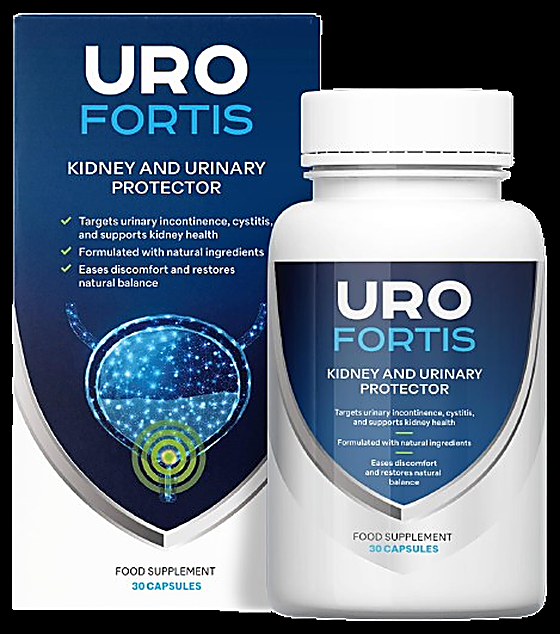
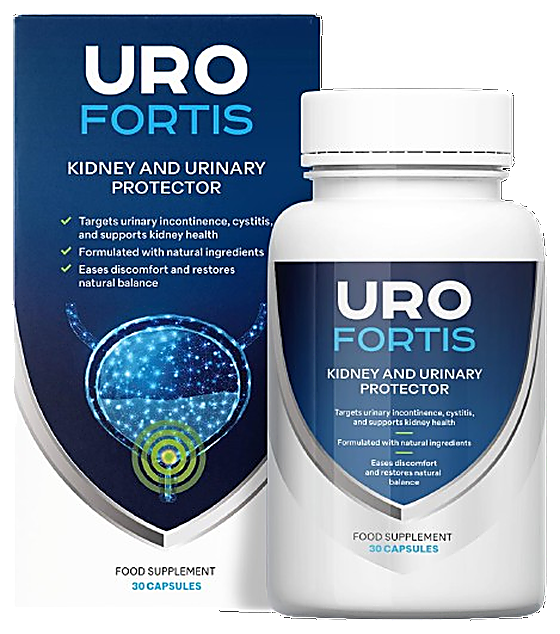
Фото: белый фон вместо чёрного — 763 кадра заливкой, 223 перерисовкой с автопроверкой текста

Changed region(s): [[0.0, 0.0, 1.0, 1.0]]

diff --git a/index.html b/index.html
@@ -52,7 +52,7 @@
 <div class="wrap">
   <header><img src="favicon.png" alt=""><h1>Магазин на производителя</h1></header>
   <div class="intro"><p>Директна продажба на продукти за ежедневно добро самочувствие.</p></div>
-  <div class="grid"><a class="card" href="/cp/abslim/"><div class="ph"><img src="img/lbhd-15182.png" alt="ABSlim" loading="lazy"></div><div class="name">ABSlim</div><div class="price">39 €</div><div class="btn">ПОРЪЧАЙ ОРИГИНАЛА</div></a><a class="card" href="/tl/abstinin/"><div class="ph"><img src="img/tlhd-14727.png" alt="ABSTININ" loading="lazy"></div><div class="name">ABSTININ</div><div class="price">32 €</div><div class="btn">ПОРЪЧАЙ ОРИГИНАЛА</div></a><a class="card" href="/kma/adenofrin/"><div class="ph"><img src="img/kmahd-9836.png" alt="Adenofrin" loading="lazy"></div><div class="name">Adenofrin</div><div class="price">39 €</div><div class="btn">ПОРЪЧАЙ ОРИГИНАЛА</div></a><a class="card" href="/dc/adenofrin/"><div class="ph"><img src="img/dccard-28111.png" alt="Adenofrin caps" loading="lazy"></div><div class="name">Adenofrin caps</div><div class="price">40 €</div><div class="btn">ПОРЪЧАЙ ОРИГИНАЛА</div></a><a class="card" href="/tl/alcoferol/"><div class="ph"><img src="img/tlhd-11860.jpg" alt="ALCOFEROL" loading="lazy"></div><div class="name">ALCOFEROL</div><div class="price">29 €</div><div class="btn">ПОРЪЧАЙ ОРИГИНАЛА</div></a><a class="card" href="/cp/alvarix/"><div class="ph"><img src="img/cp-16305.jpg" alt="ALVARIX" loading="lazy"></div><div class="name">ALVARIX</div><div class="price">39 €</div><div class="btn">ПОРЪЧАЙ ОРИГИНАЛА</div></a><a class="card" href="/ac/apolloss/"><div class="ph"><img src="img/achd-34548.png" alt="Apolloss" loading="lazy"></div><div class="name">Apolloss</div><div class="price">39 €</div><div class="btn">ПОРЪЧАЙ ОРИГИНАЛА</div></a><a class="card" href="/lb/arthrolead/"><div class="ph"><img src="img/lbhd-19307.jpeg" alt="ArthroLead" loading="lazy"></div><div class="name">ArthroLead</div><div class="price">19 €</div><div class="btn">ПОРЪЧАЙ ОРИГИНАЛА</div></a><a class="card" href="/m1/arthrolon/"><div class="ph"><img src="img/drcash-arthrolon.png" alt="Arthrolon" loading="lazy"></div><div class="name">Arthrolon</div><div class="price">40 €</div><div class="btn">ПОРЪЧАЙ ОРИГИНАЛА</div></a><a class="card" href="/kma/articulor/"><div class="ph"><img src="img/kmahd-10318.png" alt="Articulor" loading="lazy"></div><div class="name">Articulor</div><div class="price">4 €</div><div class="btn">ПОРЪЧАЙ ОРИГИНАЛА</div></a><a class="card" href="/tl/artivital/"><div class="ph"><img src="img/tlhd-23273.png" alt="Artivital" loading="lazy"></div><div class="name">Artivital</div><div class="price">27 €</div><div class="btn">ПОРЪЧАЙ ОРИГИНАЛА</div></a><a class="card" href="/lb/artrodar-active/"><div class="ph"><img src="img/lbhd-19928.png" alt="ARTRODAR Active" loading="lazy"></div><div class="name">ARTRODAR Active</div><div class="price">29 €</div><div class="btn">ПОРЪЧАЙ ОРИГИНАЛА</div></a><a class="card" href="/kma/artronol/"><div class="ph"><img src="img/kmahd-10748.png" alt="Artronol" loading="lazy"></div><div class="name">Artronol</div><div class="price">39 €</div><div class="btn">ПОРЪЧАЙ ОРИГИНАЛА</div></a><a class="card" href="/cp/aurivit/"><div class="ph"><img src="img/m1-aurivit.png" alt="Aurivit" loading="lazy"></div><div class="name">Aurivit</div><div class="price">39 €</div><div class="btn">ПОРЪЧАЙ ОРИГИНАЛА</div></a><a class="card" href="/cp/beauty-age/"><div class="ph"><img src="img/cp-16307.jpg" alt="BEAUTY AGE" loading="lazy"></div><div class="name">BEAUTY AGE</div><div class="price">39 €</div><div class="btn">ПОРЪЧАЙ ОРИГИНАЛА</div></a><a class="card" href="/kma/beauty-derm/"><div class="ph"><img src="img/kmahd-7206.jpg" alt="Beauty Derm" loading="lazy"></div><div class="name">Beauty Derm</div><div class="price">55 €</div><div class="btn">ПОРЪЧАЙ ОРИГИНАЛА</div></a><a class="card" href="/kma/brea-up/"><div class="ph"><img src="img/kmahd-9483.png" alt="Brea Up" loading="lazy"></div><div class="name">Brea Up</div><div class="price">39 €</div><div class="btn">ПОРЪЧАЙ ОРИГИНАЛА</div></a><a class="card" href="/mc/bullrun-5623/"><div class="ph"><img src="img/drcash-bullrun.png" alt="Bullrun" loading="lazy"></div><div class="name">Bullrun</div><div class="price">1 ОП. БЕЗПЛАТНО</div><div class="btn">ПОРЪЧАЙ ОРИГИНАЛА</div></a><a class="card" href="/mc/bust-up/"><div class="ph"><img src="img/cat-met-5627.jpg" alt="Bust Me-Up" loading="lazy"></div><div class="name">Bust Me-Up</div><div class="price">1 ОП. БЕЗПЛАТНО</div><div class="btn">ПОРЪЧАЙ ОРИГИНАЛА</div></a><a class="card" href="/lr/cardio-nrj/"><div class="ph"><img src="img/leadrock-cardio-nrj.webp" alt="Cardio NRJ" loading="lazy"></div><div class="name">Cardio NRJ</div><div class="price">75 €</div><div class="btn">ПОРЪЧАЙ ОРИГИНАЛА</div></a><a class="card" href="/kma/cardio-nrj-ii/"><div class="ph"><img src="img/kmahd-8695.jpg" alt="Cardio NRJ II" loading="lazy"></div><div class="name">Cardio NRJ II</div><div class="price">39 €</div><div class="btn">ПОРЪЧАЙ ОРИГИНАЛА</div></a><a class="card" href="/tl/cardioferol/"><div class="ph"><img src="img/tlhd-11021.png" alt="Cardioferol" loading="lazy"></div><div class="name">Cardioferol</div><div class="price">27 €</div><div class="btn">ПОРЪЧАЙ ОРИГИНАЛА</div></a><a class="card" href="/kma/cardiolis/"><div class="ph"><img src="img/kmahd-8286.png" alt="Cardiolis" loading="lazy"></div><div class="name">Cardiolis</div><div class="price">39 €</div><div class="btn">ПОРЪЧАЙ ОРИГИНАЛА</div></a><a class="card" href="/cp/cardioser/"><div class="ph"><img src="img/trafficlight-cardioser.png" alt="Cardioser" loading="lazy"></div><div class="name">Cardioser</div><div class="price">50 €</div><div class="btn">ПОРЪЧАЙ ОРИГИНАЛА</div></a><a class="card" href="/lr/cardiotensive/"><div class="ph"><img src="img/achd-37067.png" alt="Cardiotensive" loading="lazy"></div><div class="name">Cardiotensive</div><div class="price">69 €</div><div class="btn">ПОРЪЧАЙ ОРИГИНАЛА</div></a><a class="card" href="/kma/celluless/"><div class="ph"><img src="img/kmahd-7426.png" alt="Celluless" loading="lazy"></div><div class="name">Celluless</div><div class="price">39 €</div><div class="btn">ПОРЪЧАЙ ОРИГИНАЛА</div></a><a class="card" href="/mc/colladiox-pro/"><div class="ph"><img src="img/kmahd-11945.png" alt="Colladiox Pro" loading="lazy"></div><div class="name">Colladiox Pro</div><div class="price">1 ОП. БЕЗПЛАТНО</div><div class="btn">ПОРЪЧАЙ ОРИГИНАЛА</div></a><a class="card" href="/dc/cormidex/"><div class="ph"><img src="img/dccard-30095.png" alt="Cormidex" loading="lazy"></div><div class="name">Cormidex</div><div class="price">40 €</div><div class="btn">ПОРЪЧАЙ ОРИГИНАЛА</div></a><a class="card" href="/ac/cystiolla/"><div class="ph"><img src="img/achd-39165.png" alt="Cystiolla" loading="lazy"></div><div class="name">Cystiolla</div><div class="price">69 €</div><div class="btn">ПОРЪЧАЙ ОРИГИНАЛА</div></a><a class="card" href="/cp/cystolax/"><div class="ph"><img src="img/cpagetti-cystolax.png" alt="Cystolax" loading="lazy"></div><div class="name">Cystolax</div><div class="price">39 €</div><div class="btn">ПОРЪЧАЙ ОРИГИНАЛА</div></a><a class="card" href="/lr/dermal/"><div class="ph"><img src="img/lrhd-3086.png" alt="Dermal" loading="lazy"></div><div class="name">Dermal</div><div class="price">85 €</div><div class="btn">ПОРЪЧАЙ ОРИГИНАЛА</div></a><a class="card" href="/lr/dermasept/"><div class="ph"><img src="img/lrhd-6749.png" alt="Dermasept" loading="lazy"></div><div class="name">Dermasept</div><div class="price">20 €</div><div class="btn">ПОРЪЧАЙ ОРИГИНАЛА</div></a><a class="card" href="/mc/dermo-pro/"><div class="ph"><img src="img/tl-cab-dermo-pro.jpg" alt="Dermo-Pro" loading="lazy"></div><div class="name">Dermo-Pro</div><div class="price">1 ОП. БЕЗПЛАТНО</div><div class="btn">ПОРЪЧАЙ ОРИГИНАЛА</div></a><a class="card" href="/mc/detoxil-water/"><div class="ph"><img src="img/tlhd-14289.png" alt="Detoxil Water" loading="lazy"></div><div class="name">Detoxil Water</div><div class="price">39 €</div><div class="btn">ПОРЪЧАЙ ОРИГИНАЛА</div></a><a class="card" href="/ac/dia-caps/"><div class="ph"><img src="img/achd-38082.jpg" alt="Dia Caps" loading="lazy"></div><div class="name">Dia Caps</div><div class="price">39 €</div><div class="btn">ПОРЪЧАЙ ОРИГИНАЛА</div></a><a class="card" href="/dc/dia-control-drops/"><div class="ph"><img src="img/dccard-28611.png" alt="Dia Control drops" loading="lazy"></div><div class="name">Dia Control drops</div><div class="price">40 €</div><div class="btn">ПОРЪЧАЙ ОРИГИНАЛА</div></a><a class="card" href="/lb/diabexol-pro/"><div class="ph"><img src="img/lbhd-19452.png" alt="Diabexol Pro" loading="lazy"></div><div class="name">Diabexol Pro</div><div class="price">29 €</div><div class="btn">ПОРЪЧАЙ ОРИГИНАЛА</div></a><a class="card" href="/lr/diacaps/"><div class="ph"><img src="img/lrhd-4273.png" alt="DiaCaps" loading="lazy"></div><div class="name">DiaCaps</div><div class="price">75 €</div><div class="btn">ПОРЪЧАЙ ОРИГИНАЛА</div></a><a class="card" href="/dc/diacontrol/"><div class="ph"><img src="img/dccard-31469.png" alt="DiaControl caps" loading="lazy"></div><div class="name">DiaControl caps</div><div class="price">40 €</div><div class="btn">ПОРЪЧАЙ ОРИГИНАЛА</div></a><a class="card" href="/ac/diadrops/"><div class="ph"><img src="img/achd-34545.jpg" alt="DiaDrops" loading="lazy"></div><div class="name">DiaDrops</div><div class="price">39 €</div><div class="btn">ПОРЪЧАЙ ОРИГИНАЛА</div></a><a class="card" href="/cp/diaflex-forte/"><div class="ph"><img src="img/cat-kma-10567.jpg" alt="DiaFlex Forte" loading="lazy"></div><div class="name">DiaFlex Forte</div><div class="price">35 €</div><div class="btn">ПОРЪЧАЙ ОРИГИНАЛА</div></a><a class="card" href="/ac/diatea/"><div class="ph"><img src="img/achd-32540.jpeg" alt="Diatea" loading="lazy"></div><div class="name">Diatea</div><div class="price">39 €</div><div class="btn">ПОРЪЧАЙ ОРИГИНАЛА</div></a><a class="card" href="/lb/diet-shake/"><div class="ph"><img src="img/lbhd-15177.png" alt="Diet Shake" loading="lazy"></div><div class="name">Diet Shake</div><div class="price">49.9 €</div><div class="btn">ПОРЪЧАЙ ОРИГИНАЛА</div></a><a class="card" href="/cp/dizaxen/"><div class="ph"><img src="img/cp-17997.jpg" alt="DIZAXEN" loading="lazy"></div><div class="name">DIZAXEN</div><div class="price">39 €</div><div class="btn">ПОРЪЧАЙ ОРИГИНАЛА</div></a><a class="card" href="/m1/dm-norm/"><div class="ph"><img src="img/trafficlight-dm-norm.png" alt="DM-Norm" loading="lazy"></div><div class="name">DM-Norm</div><div class="price">20 €</div><div class="btn">ПОРЪЧАЙ ОРИГИНАЛА</div></a><a class="card" href="/dc/dm-norm/"><div class="ph"><img src="img/trafficlight-dm-norm.png" alt="DM-NORM caps" loading="lazy"></div><div class="name">DM-NORM caps</div><div class="price">40 €</div><div class="btn">ПОРЪЧАЙ ОРИГИНАЛА</div></a><a class="card" href="/mc/dorsodex/"><div class="ph"><img src="img/mchd-5785.png" alt="Dorsodex" loading="lazy"></div><div class="name">Dorsodex</div><div class="price">40 €</div><div class="btn">ПОРЪЧАЙ ОРИГИНАЛА</div></a><a class="card" href="/dc/dorsodex-cream/"><div class="ph"><img src="img/dccard-32634.png" alt="Dorsodex Cream" loading="lazy"></div><div class="name">Dorsodex Cream</div><div class="price">40 €</div><div class="btn">ПОРЪЧАЙ ОРИГИНАЛА</div></a></div>
+  <div class="grid"><a class="card" href="/cp/abslim/"><div class="ph"><img src="img/lbhd-15182.png" alt="ABSlim" loading="lazy"></div><div class="name">ABSlim</div><div class="price">39 €</div><div class="btn">ПОРЪЧАЙ ОРИГИНАЛА</div></a><a class="card" href="/tl/abstinin/"><div class="ph"><img src="img/redraw-tlhd-14727.png" alt="ABSTININ" loading="lazy"></div><div class="name">ABSTININ</div><div class="price">32 €</div><div class="btn">ПОРЪЧАЙ ОРИГИНАЛА</div></a><a class="card" href="/kma/adenofrin/"><div class="ph"><img src="img/kmahd-9836.png" alt="Adenofrin" loading="lazy"></div><div class="name">Adenofrin</div><div class="price">39 €</div><div class="btn">ПОРЪЧАЙ ОРИГИНАЛА</div></a><a class="card" href="/dc/adenofrin/"><div class="ph"><img src="img/dccard-28111.png" alt="Adenofrin caps" loading="lazy"></div><div class="name">Adenofrin caps</div><div class="price">40 €</div><div class="btn">ПОРЪЧАЙ ОРИГИНАЛА</div></a><a class="card" href="/tl/alcoferol/"><div class="ph"><img src="img/tlhd-11860.jpg" alt="ALCOFEROL" loading="lazy"></div><div class="name">ALCOFEROL</div><div class="price">29 €</div><div class="btn">ПОРЪЧАЙ ОРИГИНАЛА</div></a><a class="card" href="/cp/alvarix/"><div class="ph"><img src="img/cp-16305.jpg" alt="ALVARIX" loading="lazy"></div><div class="name">ALVARIX</div><div class="price">39 €</div><div class="btn">ПОРЪЧАЙ ОРИГИНАЛА</div></a><a class="card" href="/ac/apolloss/"><div class="ph"><img src="img/achd-34548.png" alt="Apolloss" loading="lazy"></div><div class="name">Apolloss</div><div class="price">39 €</div><div class="btn">ПОРЪЧАЙ ОРИГИНАЛА</div></a><a class="card" href="/lb/arthrolead/"><div class="ph"><img src="img/lbhd-19307.jpeg" alt="ArthroLead" loading="lazy"></div><div class="name">ArthroLead</div><div class="price">19 €</div><div class="btn">ПОРЪЧАЙ ОРИГИНАЛА</div></a><a class="card" href="/m1/arthrolon/"><div class="ph"><img src="img/drcash-arthrolon.png" alt="Arthrolon" loading="lazy"></div><div class="name">Arthrolon</div><div class="price">40 €</div><div class="btn">ПОРЪЧАЙ ОРИГИНАЛА</div></a><a class="card" href="/kma/articulor/"><div class="ph"><img src="img/kmahd-10318.png" alt="Articulor" loading="lazy"></div><div class="name">Articulor</div><div class="price">4 €</div><div class="btn">ПОРЪЧАЙ ОРИГИНАЛА</div></a><a class="card" href="/tl/artivital/"><div class="ph"><img src="img/tlhd-23273.png" alt="Artivital" loading="lazy"></div><div class="name">Artivital</div><div class="price">27 €</div><div class="btn">ПОРЪЧАЙ ОРИГИНАЛА</div></a><a class="card" href="/lb/artrodar-active/"><div class="ph"><img src="img/lbhd-19928.png" alt="ARTRODAR Active" loading="lazy"></div><div class="name">ARTRODAR Active</div><div class="price">29 €</div><div class="btn">ПОРЪЧАЙ ОРИГИНАЛА</div></a><a class="card" href="/kma/artronol/"><div class="ph"><img src="img/kmahd-10748.png" alt="Artronol" loading="lazy"></div><div class="name">Artronol</div><div class="price">39 €</div><div class="btn">ПОРЪЧАЙ ОРИГИНАЛА</div></a><a class="card" href="/cp/aurivit/"><div class="ph"><img src="img/m1-aurivit.png" alt="Aurivit" loading="lazy"></div><div class="name">Aurivit</div><div class="price">39 €</div><div class="btn">ПОРЪЧАЙ ОРИГИНАЛА</div></a><a class="card" href="/cp/beauty-age/"><div class="ph"><img src="img/cp-16307.jpg" alt="BEAUTY AGE" loading="lazy"></div><div class="name">BEAUTY AGE</div><div class="price">39 €</div><div class="btn">ПОРЪЧАЙ ОРИГИНАЛА</div></a><a class="card" href="/kma/beauty-derm/"><div class="ph"><img src="img/kmahd-7206.jpg" alt="Beauty Derm" loading="lazy"></div><div class="name">Beauty Derm</div><div class="price">55 €</div><div class="btn">ПОРЪЧАЙ ОРИГИНАЛА</div></a><a class="card" href="/kma/brea-up/"><div class="ph"><img src="img/kmahd-9483.png" alt="Brea Up" loading="lazy"></div><div class="name">Brea Up</div><div class="price">39 €</div><div class="btn">ПОРЪЧАЙ ОРИГИНАЛА</div></a><a class="card" href="/mc/bullrun-5623/"><div class="ph"><img src="img/redraw-drcash-bullrun.png" alt="Bullrun" loading="lazy"></div><div class="name">Bullrun</div><div class="price">1 ОП. БЕЗПЛАТНО</div><div class="btn">ПОРЪЧАЙ ОРИГИНАЛА</div></a><a class="card" href="/mc/bust-up/"><div class="ph"><img src="img/cat-met-5627.jpg" alt="Bust Me-Up" loading="lazy"></div><div class="name">Bust Me-Up</div><div class="price">1 ОП. БЕЗПЛАТНО</div><div class="btn">ПОРЪЧАЙ ОРИГИНАЛА</div></a><a class="card" href="/lr/cardio-nrj/"><div class="ph"><img src="img/leadrock-cardio-nrj.webp" alt="Cardio NRJ" loading="lazy"></div><div class="name">Cardio NRJ</div><div class="price">75 €</div><div class="btn">ПОРЪЧАЙ ОРИГИНАЛА</div></a><a class="card" href="/kma/cardio-nrj-ii/"><div class="ph"><img src="img/kmahd-8695.jpg" alt="Cardio NRJ II" loading="lazy"></div><div class="name">Cardio NRJ II</div><div class="price">39 €</div><div class="btn">ПОРЪЧАЙ ОРИГИНАЛА</div></a><a class="card" href="/tl/cardioferol/"><div class="ph"><img src="img/tlhd-11021.png" alt="Cardioferol" loading="lazy"></div><div class="name">Cardioferol</div><div class="price">27 €</div><div class="btn">ПОРЪЧАЙ ОРИГИНАЛА</div></a><a class="card" href="/kma/cardiolis/"><div class="ph"><img src="img/kmahd-8286.png" alt="Cardiolis" loading="lazy"></div><div class="name">Cardiolis</div><div class="price">39 €</div><div class="btn">ПОРЪЧАЙ ОРИГИНАЛА</div></a><a class="card" href="/cp/cardioser/"><div class="ph"><img src="img/trafficlight-cardioser.png" alt="Cardioser" loading="lazy"></div><div class="name">Cardioser</div><div class="price">50 €</div><div class="btn">ПОРЪЧАЙ ОРИГИНАЛА</div></a><a class="card" href="/lr/cardiotensive/"><div class="ph"><img src="img/achd-37067.png" alt="Cardiotensive" loading="lazy"></div><div class="name">Cardiotensive</div><div class="price">69 €</div><div class="btn">ПОРЪЧАЙ ОРИГИНАЛА</div></a><a class="card" href="/kma/celluless/"><div class="ph"><img src="img/kmahd-7426.png" alt="Celluless" loading="lazy"></div><div class="name">Celluless</div><div class="price">39 €</div><div class="btn">ПОРЪЧАЙ ОРИГИНАЛА</div></a><a class="card" href="/mc/colladiox-pro/"><div class="ph"><img src="img/kmahd-11945.png" alt="Colladiox Pro" loading="lazy"></div><div class="name">Colladiox Pro</div><div class="price">1 ОП. БЕЗПЛАТНО</div><div class="btn">ПОРЪЧАЙ ОРИГИНАЛА</div></a><a class="card" href="/dc/cormidex/"><div class="ph"><img src="img/dccard-30095.png" alt="Cormidex" loading="lazy"></div><div class="name">Cormidex</div><div class="price">40 €</div><div class="btn">ПОРЪЧАЙ ОРИГИНАЛА</div></a><a class="card" href="/ac/cystiolla/"><div class="ph"><img src="img/achd-39165.png" alt="Cystiolla" loading="lazy"></div><div class="name">Cystiolla</div><div class="price">69 €</div><div class="btn">ПОРЪЧАЙ ОРИГИНАЛА</div></a><a class="card" href="/cp/cystolax/"><div class="ph"><img src="img/cpagetti-cystolax.png" alt="Cystolax" loading="lazy"></div><div class="name">Cystolax</div><div class="price">39 €</div><div class="btn">ПОРЪЧАЙ ОРИГИНАЛА</div></a><a class="card" href="/lr/dermal/"><div class="ph"><img src="img/lrhd-3086.png" alt="Dermal" loading="lazy"></div><div class="name">Dermal</div><div class="price">85 €</div><div class="btn">ПОРЪЧАЙ ОРИГИНАЛА</div></a><a class="card" href="/lr/dermasept/"><div class="ph"><img src="img/lrhd-6749.png" alt="Dermasept" loading="lazy"></div><div class="name">Dermasept</div><div class="price">20 €</div><div class="btn">ПОРЪЧАЙ ОРИГИНАЛА</div></a><a class="card" href="/mc/dermo-pro/"><div class="ph"><img src="img/tl-cab-dermo-pro.jpg" alt="Dermo-Pro" loading="lazy"></div><div class="name">Dermo-Pro</div><div class="price">1 ОП. БЕЗПЛАТНО</div><div class="btn">ПОРЪЧАЙ ОРИГИНАЛА</div></a><a class="card" href="/mc/detoxil-water/"><div class="ph"><img src="img/tlhd-14289.png" alt="Detoxil Water" loading="lazy"></div><div class="name">Detoxil Water</div><div class="price">39 €</div><div class="btn">ПОРЪЧАЙ ОРИГИНАЛА</div></a><a class="card" href="/ac/dia-caps/"><div class="ph"><img src="img/achd-38082.jpg" alt="Dia Caps" loading="lazy"></div><div class="name">Dia Caps</div><div class="price">39 €</div><div class="btn">ПОРЪЧАЙ ОРИГИНАЛА</div></a><a class="card" href="/dc/dia-control-drops/"><div class="ph"><img src="img/dccard-28611.png" alt="Dia Control drops" loading="lazy"></div><div class="name">Dia Control drops</div><div class="price">40 €</div><div class="btn">ПОРЪЧАЙ ОРИГИНАЛА</div></a><a class="card" href="/lb/diabexol-pro/"><div class="ph"><img src="img/lbhd-19452.png" alt="Diabexol Pro" loading="lazy"></div><div class="name">Diabexol Pro</div><div class="price">29 €</div><div class="btn">ПОРЪЧАЙ ОРИГИНАЛА</div></a><a class="card" href="/lr/diacaps/"><div class="ph"><img src="img/lrhd-4273.png" alt="DiaCaps" loading="lazy"></div><div class="name">DiaCaps</div><div class="price">75 €</div><div class="btn">ПОРЪЧАЙ ОРИГИНАЛА</div></a><a class="card" href="/dc/diacontrol/"><div class="ph"><img src="img/dccard-31469.png" alt="DiaControl caps" loading="lazy"></div><div class="name">DiaControl caps</div><div class="price">40 €</div><div class="btn">ПОРЪЧАЙ ОРИГИНАЛА</div></a><a class="card" href="/ac/diadrops/"><div class="ph"><img src="img/achd-34545.jpg" alt="DiaDrops" loading="lazy"></div><div class="name">DiaDrops</div><div class="price">39 €</div><div class="btn">ПОРЪЧАЙ ОРИГИНАЛА</div></a><a class="card" href="/cp/diaflex-forte/"><div class="ph"><img src="img/cat-kma-10567.jpg" alt="DiaFlex Forte" loading="lazy"></div><div class="name">DiaFlex Forte</div><div class="price">35 €</div><div class="btn">ПОРЪЧАЙ ОРИГИНАЛА</div></a><a class="card" href="/ac/diatea/"><div class="ph"><img src="img/achd-32540.jpeg" alt="Diatea" loading="lazy"></div><div class="name">Diatea</div><div class="price">39 €</div><div class="btn">ПОРЪЧАЙ ОРИГИНАЛА</div></a><a class="card" href="/lb/diet-shake/"><div class="ph"><img src="img/lbhd-15177.png" alt="Diet Shake" loading="lazy"></div><div class="name">Diet Shake</div><div class="price">49.9 €</div><div class="btn">ПОРЪЧАЙ ОРИГИНАЛА</div></a><a class="card" href="/cp/dizaxen/"><div class="ph"><img src="img/cp-17997.jpg" alt="DIZAXEN" loading="lazy"></div><div class="name">DIZAXEN</div><div class="price">39 €</div><div class="btn">ПОРЪЧАЙ ОРИГИНАЛА</div></a><a class="card" href="/m1/dm-norm/"><div class="ph"><img src="img/trafficlight-dm-norm.png" alt="DM-Norm" loading="lazy"></div><div class="name">DM-Norm</div><div class="price">20 €</div><div class="btn">ПОРЪЧАЙ ОРИГИНАЛА</div></a><a class="card" href="/dc/dm-norm/"><div class="ph"><img src="img/trafficlight-dm-norm.png" alt="DM-NORM caps" loading="lazy"></div><div class="name">DM-NORM caps</div><div class="price">40 €</div><div class="btn">ПОРЪЧАЙ ОРИГИНАЛА</div></a><a class="card" href="/mc/dorsodex/"><div class="ph"><img src="img/mchd-5785.png" alt="Dorsodex" loading="lazy"></div><div class="name">Dorsodex</div><div class="price">40 €</div><div class="btn">ПОРЪЧАЙ ОРИГИНАЛА</div></a><a class="card" href="/dc/dorsodex-cream/"><div class="ph"><img src="img/dccard-32634.png" alt="Dorsodex Cream" loading="lazy"></div><div class="name">Dorsodex Cream</div><div class="price">40 €</div><div class="btn">ПОРЪЧАЙ ОРИГИНАЛА</div></a></div>
   <footer><a href="privacy.html">Политика за поверителност</a><a href="terms.html">Общи условия</a><a href="kontakt.html">Контакти</a><a href="about.html">За нас</a><span>fazalstrk@gmail.com</span><span>© 2026</span></footer>
 </div>
 </body>

diff --git a/lr/prostalisan/index.html b/lr/prostalisan/index.html
@@ -260,7 +260,7 @@ body.free .disc,body:not(.free) .nodisc{display:none}
       <div>
         <div class="product-card">
           <span class="disc-ribbon disc">-50%</span>
-          <img src="../../img/drcash-prostalisan.jpg" alt="Prostalisan caps">
+          <img src="../../img/redraw-drcash-prostalisan.png" alt="Prostalisan caps">
           <div><span class="ribbon">Оригинал</span><div class="shotcap">Оригинална опаковка с пломба и номер на партида</div></div>
         </div>
       </div>

diff --git a/kma/diabexol-pro-11730/index.html b/kma/diabexol-pro-11730/index.html
@@ -260,7 +260,7 @@ body.free .disc,body:not(.free) .nodisc{display:none}
       <div>
         <div class="product-card">
           <span class="disc-ribbon disc">-50%</span>
-          <img src="../../img/kmahd-11730.png" alt="Diabexol Pro">
+          <img src="../../img/redraw-kmahd-11730.png" alt="Diabexol Pro">
           <div><span class="ribbon">Оригинал</span><div class="shotcap">Оригинална опаковка с пломба и номер на партида</div></div>
         </div>
       </div>

diff --git a/ac/gopotent/index.html b/ac/gopotent/index.html
@@ -260,7 +260,7 @@ body.free .disc,body:not(.free) .nodisc{display:none}
       <div>
         <div class="product-card">
           <span class="disc-ribbon disc">-50%</span>
-          <img src="../../img/cat-adc-25884.jpg" alt="GoPotent">
+          <img src="../../img/redraw-cat-adc-25884.png" alt="GoPotent">
           <div><span class="ribbon">Оригинал</span><div class="shotcap">Оригинална опаковка с пломба и номер на партида</div></div>
         </div>
       </div>

diff --git a/lr/hairperfecta/index.html b/lr/hairperfecta/index.html
@@ -260,7 +260,7 @@ body.free .disc,body:not(.free) .nodisc{display:none}
       <div>
         <div class="product-card">
           <span class="disc-ribbon disc">-50%</span>
-          <img src="../../img/tlhd-8917.jpg" alt="HairPerfecta">
+          <img src="../../img/redraw-tlhd-8917.png" alt="HairPerfecta">
           <div><span class="ribbon">Оригинал</span><div class="shotcap">Оригинална опаковка с пломба и номер на партида</div></div>
         </div>
       </div>

diff --git a/tl/hairperfecta/index.html b/tl/hairperfecta/index.html
@@ -260,7 +260,7 @@ body.free .disc,body:not(.free) .nodisc{display:none}
       <div>
         <div class="product-card">
           <span class="disc-ribbon disc">-50%</span>
-          <img src="../../img/tlhd-8917.jpg" alt="HairPerfecta">
+          <img src="../../img/redraw-tlhd-8917.png" alt="HairPerfecta">
           <div><span class="ribbon">Оригинал</span><div class="shotcap">Оригинална опаковка с пломба и номер на партида</div></div>
         </div>
       </div>

diff --git a/dc/bullrun-32284/index.html b/dc/bullrun-32284/index.html
@@ -260,7 +260,7 @@ body.free .disc,body:not(.free) .nodisc{display:none}
       <div>
         <div class="product-card">
           <span class="disc-ribbon disc"></span>
-          <img src="../../img/drcash-bullrun.png" alt="BullRun">
+          <img src="../../img/redraw-drcash-bullrun.png" alt="BullRun">
           <div><span class="ribbon">Безплатно</span><div class="shotcap">Оригинална опаковка с пломба и номер на партида</div></div>
         </div>
       </div>

diff --git a/dc/hairstim-32860/index.html b/dc/hairstim-32860/index.html
@@ -260,7 +260,7 @@ body.free .disc,body:not(.free) .nodisc{display:none}
       <div>
         <div class="product-card">
           <span class="disc-ribbon disc"></span>
-          <img src="../../img/cat-drc-32860.jpg" alt="Hairstim">
+          <img src="../../img/redraw-cat-drc-32860.png" alt="Hairstim">
           <div><span class="ribbon">Безплатно</span><div class="shotcap">Оригинална опаковка с пломба и номер на партида</div></div>
         </div>
       </div>

diff --git a/kma/hypotenol-11600/index.html b/kma/hypotenol-11600/index.html
@@ -260,7 +260,7 @@ body.free .disc,body:not(.free) .nodisc{display:none}
       <div>
         <div class="product-card">
           <span class="disc-ribbon disc">-50%</span>
-          <img src="../../img/kmahd-11600.png" alt="Hypotenol">
+          <img src="../../img/redraw-kmahd-11600.png" alt="Hypotenol">
           <div><span class="ribbon">Оригинал</span><div class="shotcap">Оригинална опаковка с пломба и номер на партида</div></div>
         </div>
       </div>

diff --git a/kma/ketoexpert/index.html b/kma/ketoexpert/index.html
@@ -260,7 +260,7 @@ body.free .disc,body:not(.free) .nodisc{display:none}
       <div>
         <div class="product-card">
           <span class="disc-ribbon disc">-50%</span>
-          <img src="../../img/kmahd-6348.png" alt="KetoExpert">
+          <img src="../../img/redraw-kmahd-6348.png" alt="KetoExpert">
           <div><span class="ribbon">Оригинал</span><div class="shotcap">Оригинална опаковка с пломба и номер на партида</div></div>
         </div>
       </div>

diff --git a/mc/bullrun-5623/index.html b/mc/bullrun-5623/index.html
@@ -260,7 +260,7 @@ body.free .disc,body:not(.free) .nodisc{display:none}
       <div>
         <div class="product-card">
           <span class="disc-ribbon disc"></span>
-          <img src="../../img/drcash-bullrun.png" alt="Bullrun">
+          <img src="../../img/redraw-drcash-bullrun.png" alt="Bullrun">
           <div><span class="ribbon">Безплатно</span><div class="shotcap">Оригинална опаковка с пломба и номер на партида</div></div>
         </div>
       </div>

diff --git a/lr/go-potent/index.html b/lr/go-potent/index.html
@@ -260,7 +260,7 @@ body.free .disc,body:not(.free) .nodisc{display:none}
       <div>
         <div class="product-card">
           <span class="disc-ribbon disc">-50%</span>
-          <img src="../../img/achd-29416.JPG" alt="Go Potent">
+          <img src="../../img/redraw-achd-29416.png" alt="Go Potent">
           <div><span class="ribbon">Оригинал</span><div class="shotcap">Оригинална опаковка с пломба и номер на партида</div></div>
         </div>
       </div>
